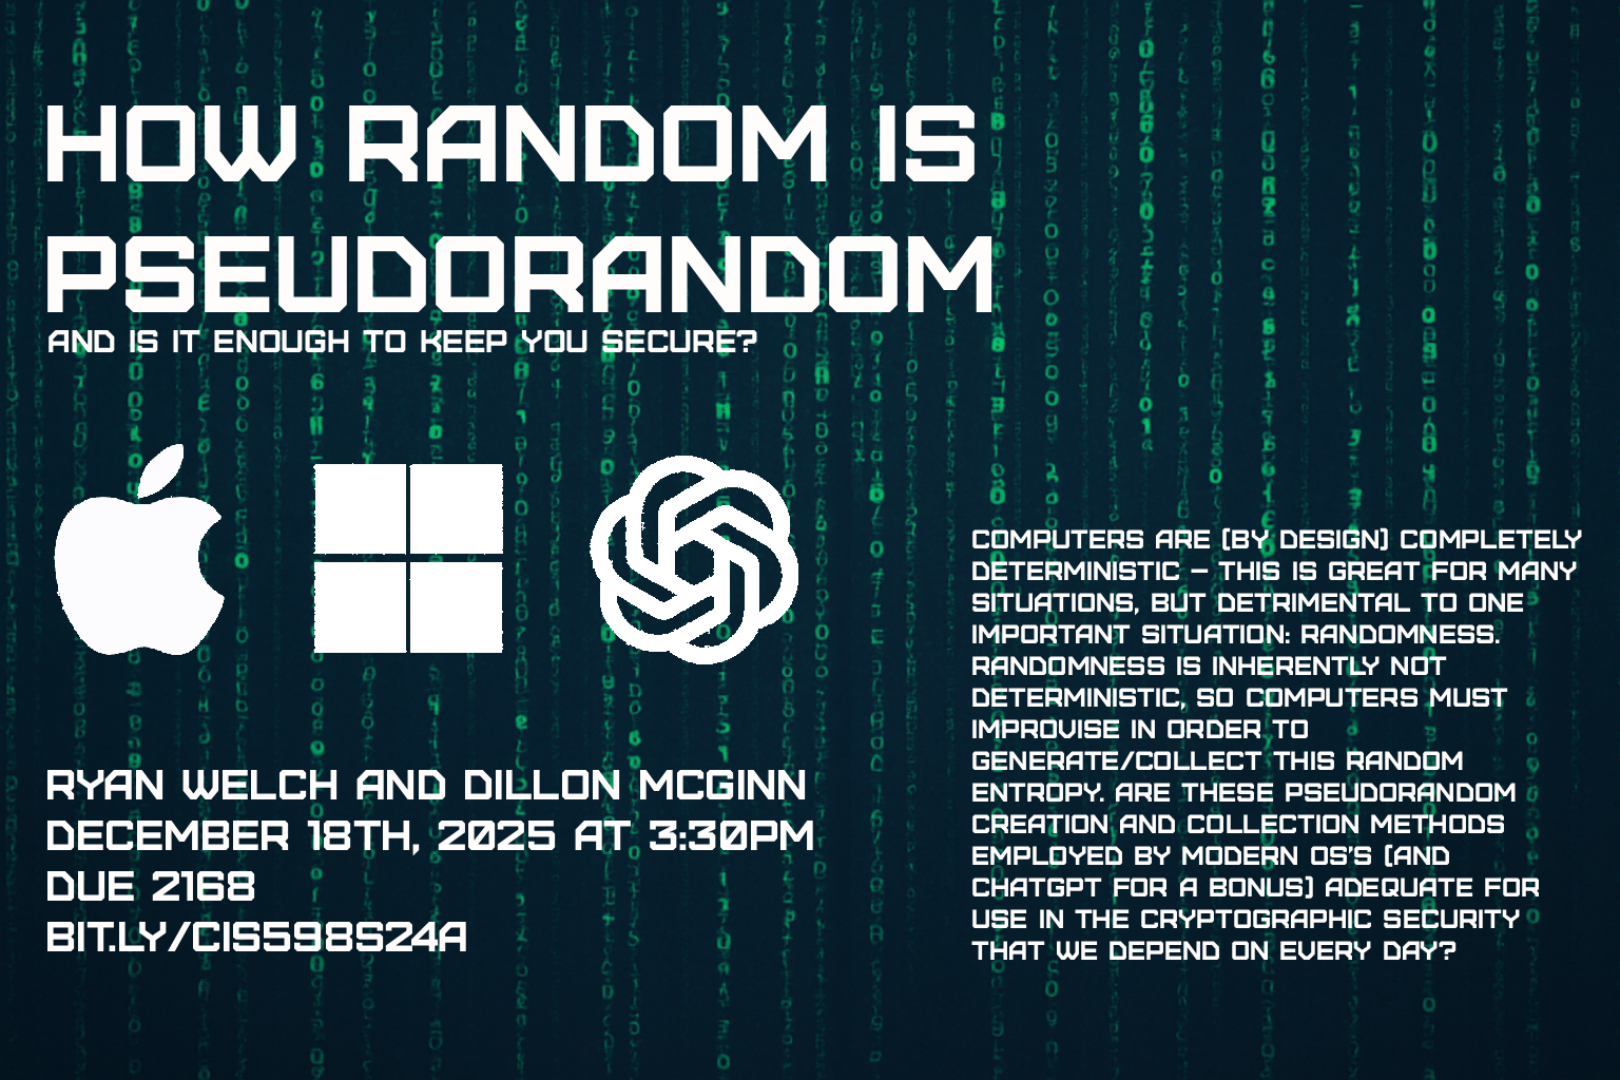
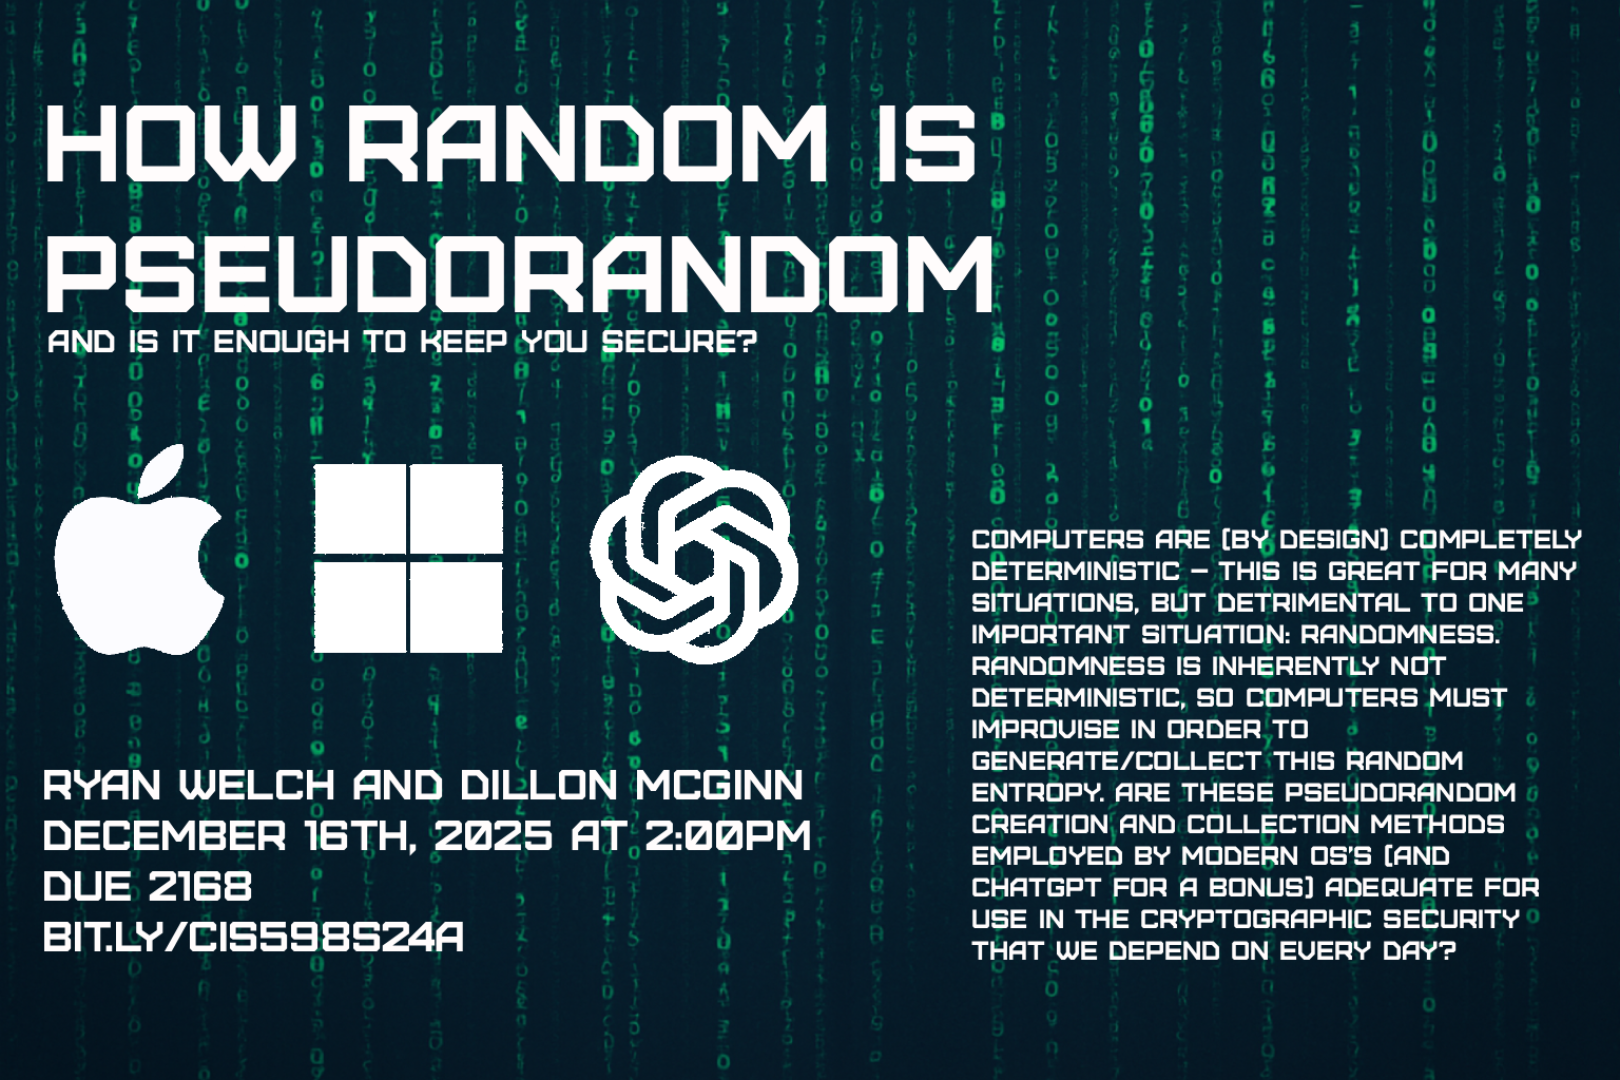
Update

Changed region(s): [[0.0309, 0.7028, 0.5247, 0.8861]]

diff --git a/content/b-schedule/07-fall2025/index.md b/content/b-schedule/07-fall2025/index.md
@@ -6,6 +6,7 @@ weight: 60
 | Project | Student | Advisor | Date | Time | Location | Zoom |
 |:-------:|:-------:|:-------:|:----:|:----:|:--------:|:----:|
 | [ServiceSync]({{% ref "07-fall2025#e0" %}}) | Nate Carter | Thornton | Fri, Dec 12 | 1:45 PM | DUE 2168 | [Zoom](https://bit.ly/cis598s24a) |
+| [How Random is Pseudorandom?]({{% ref "07-fall2025#e20" %}}) | Ryan Welch & Dillon McGinn | Amariucai | Tue, Dec 16 | 2:00 PM | DUE 2168 | [Zoom](https://bit.ly/cis598s24a) |
 | [Verba]({{% ref "07-fall2025#e1" %}}) | Wyatt Morris | Weese | Wed, Dec 17 | 8:00 AM | DUE 2168 | [Zoom](https://bit.ly/cis598s24a) |
 | [CourseLogiCS]({{% ref "07-fall2025#e2" %}}) | Jackson Cannell | Malallah | Wed, Dec 17 | 8:45 AM | DUE 2168 | [Zoom](https://bit.ly/cis598s24a) |
 | [EduVista]({{% ref "07-fall2025#e3" %}}) | Taj Ikhlaas | Malallah | Wed, Dec 17 | 9:30 AM | DUE 2168 | [Zoom](https://bit.ly/cis598s24a) |
@@ -24,7 +25,6 @@ weight: 60
 | [Kansas Population Trends Visualization]({{% ref "07-fall2025#e17" %}}) | Amala John, Evan Harris, & Josh Zubrek | Bean | Thur, Dec 18 | 1:15 PM | DUE 2168 | [Zoom](https://bit.ly/cis598s24a) |
 | [DashTA]({{% ref "07-fall2025#e18" %}}) | Hiep Nguyen | Malallah | Thur, Dec 18 | 2:00 PM | DUE 2168 | [Zoom](https://bit.ly/cis598s24a) |
 | [Gig Manager]({{% ref "07-fall2025#e19" %}}) | Carson Bollinger | Thornton | Thur, Dec 18 | 2:45 PM | DUE 2168 | [Zoom](https://bit.ly/cis598s24a) |
-| [How Random is Pseudorandom?]({{% ref "07-fall2025#e20" %}}) | Ryan Welch & Dillon McGinn | Amariucai | Thur, Dec 18 | 3:30 PM | DUE 2168 | [Zoom](https://bit.ly/cis598s24a) |
 | [Agricultural Microworld]({{% ref "07-fall2025#e22" %}}) | Max Casey, Daniel Cortez, Dakota Denton, & Jackson Saim | Bean | Fri, Dec 19 | 11:50 PM | DUE 2168 | [Zoom](https://bit.ly/cis598s24a) |
 | [Aerosuite]({{% ref "07-fall2025#e24" %}}) | Ella Carlson | Feldhausen | Fri, Dec 19 | 10:30 AM | Virtual | [Zoom](https://bit.ly/cis598s24a) |
 | [Threadfolio]({{% ref "07-fall2025#e25" %}}) | Meghan Buchanan | Feldhausen | Fri, Dec 19 | 4:00 PM | Virtual | [Zoom](https://bit.ly/cis598s24a) |
@@ -36,6 +36,14 @@ Nate Carter
 ![Image](images/carter.png)
 
 ServiceSync is a web application designed to increase the workflow of how small maintenance companies manage their daily operations. Maintenance work often becomes scattered across paper notes, texts, and spreadsheets, making it difficult to track assignments, deadlines, and inventory. ServiceSync solves this by bringing work orders, technician scheduling, inventory tracking, invoice generation and preventive maintenance into one organized platform. With automated scheduling for preventive maintenance, real-time updates, and clear role-based access, the system helps companies stay efficient, reduce confusion, and keep their work running smoothly. 
+
+## How Random is Pseudorandom? {#e20}
+
+Ryan Welch & Dillon McGinn
+
+![Image](images/cis599.png)
+
+Computers are (by design) completely deterministic - this is great for many situations, but detrimental to one important situation: randomness. Randomness is inherently not deterministic, so computers must improvise in order to generate/collect this random entropy. Are these pseudorandom creation and collection methods employed by moderns OS's (and ChatGPT for a bonus) adequate for use in cryptographic security that we depend on every day?
 
 ## Verba {#e1}
 
@@ -180,14 +188,6 @@ Carson Bollinger
 ![Image](images/bollinger.png)
 
 Gig Manager is a musician-focused web application that helps users discover, schedule, and manage upcoming gigs. Built with Blazor, C#, SQLServer, and ASP.NET Core Identity, it lets users create accounts, book and manage upcoming gigs, and explore user profiles/upcoming gigs. Musicians can also define preferences and be recommended gigs to try to book. This will be presented by Carson Bollinger in DUE 2168 on December 18 at 2:45PM and can be viewed virtually via zoom here: https://bit.ly/cis598s24a
-
-## How Random is Pseudorandom? {#e20}
-
-Ryan Welch & Dillon McGinn
-
-![Image](images/cis599.png)
-
-Computers are (by design) completely deterministic - this is great for many situations, but detrimental to one important situation: randomness. Randomness is inherently not deterministic, so computers must improvise in order to generate/collect this random entropy. Are these pseudorandom creation and collection methods employed by moderns OS's (and ChatGPT for a bonus) adequate for use in cryptographic security that we depend on every day?
 
 ## Agricultural Microworld {#e22}
 
